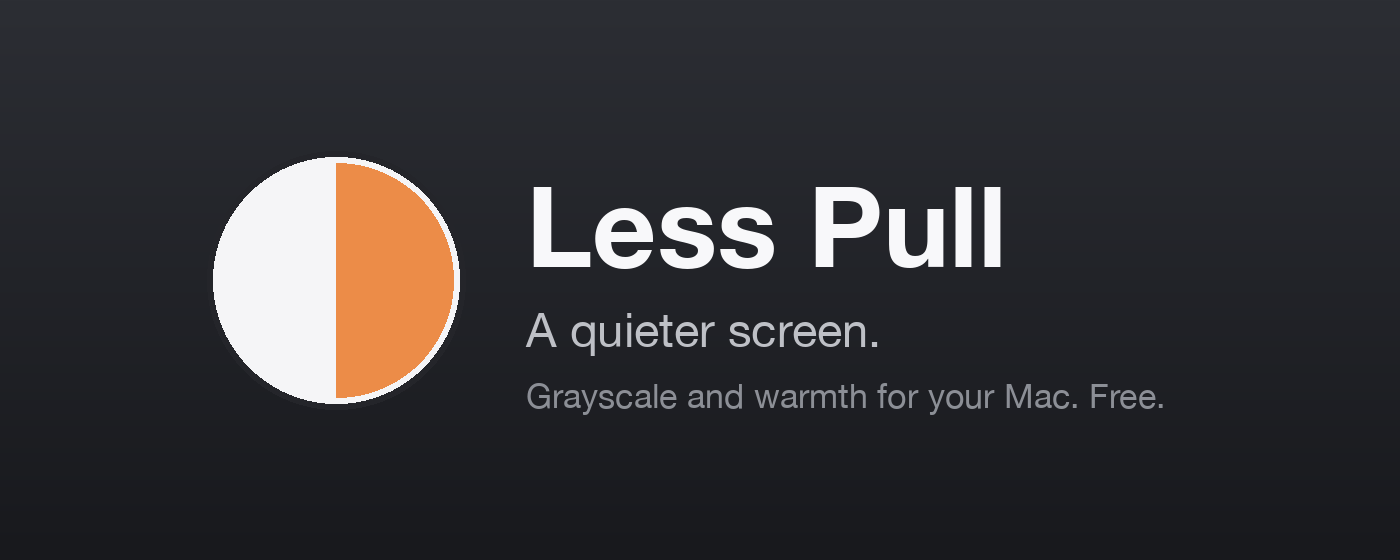
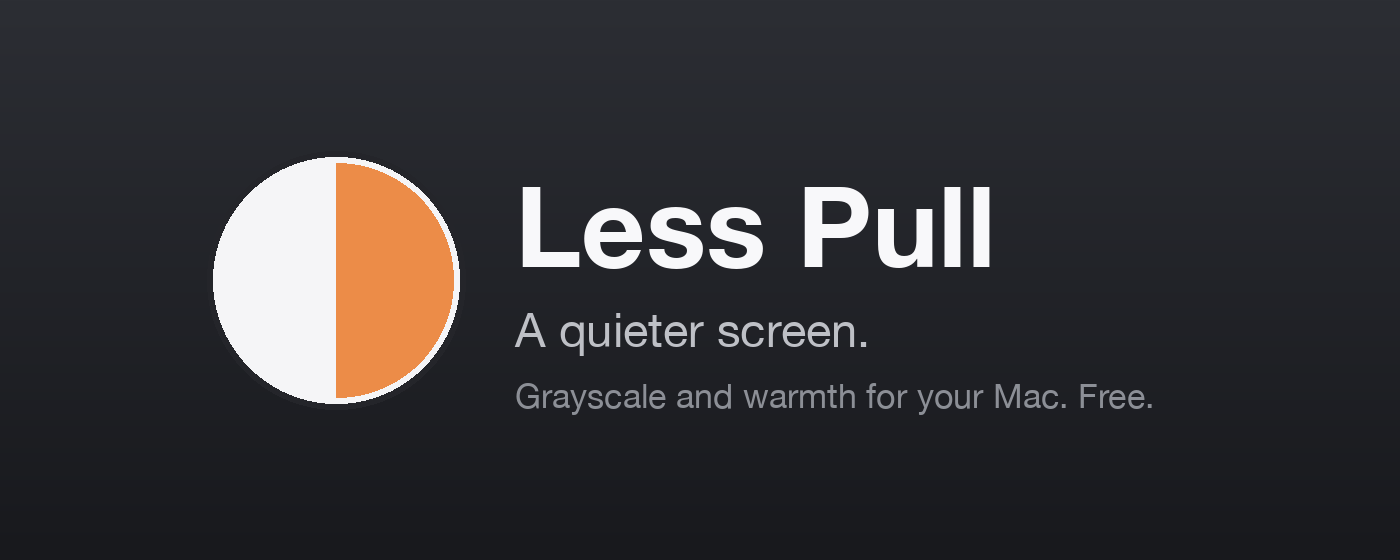
Promo tile: small size fits

Changed region(s): [[0.3686, 0.3339, 0.7371, 0.4857], [0.3686, 0.6679, 0.8293, 0.7286], [0.3686, 0.5464, 0.6143, 0.6375]]

diff --git a/docs/assets/src/promo-tiles.py b/docs/assets/src/promo-tiles.py
@@ -12,10 +12,14 @@ def tile(W, H, name):
     g = np.linspace(0, 1, H)[:, None]; top, bot = np.array([44, 46, 52]), np.array([24, 25, 29])
     im = Image.fromarray((top * (1 - g) + bot * g)[:, None, :].repeat(W, 1).reshape(H, W, 3).astype('uint8'), 'RGB'); d = ImageDraw.Draw(im)
     r = int(H * 0.22); cx, cy = int(W * 0.24), H // 2
+    if W / H < 2:  # the small tile is squarer: smaller mark, smaller type, so the lines fit
+        r = int(H * 0.19); cx = int(W * 0.2)
     d.ellipse((cx - r - 6, cy - r - 6, cx + r + 6, cy + r + 6), fill=(36, 37, 42))
     d.pieslice((cx - r, cy - r, cx + r, cy + r), 90, 270, fill=(245, 245, 247)); d.pieslice((cx - r, cy - r, cx + r, cy + r), 270, 450, fill=(236, 140, 72)); d.ellipse((cx - r, cy - r, cx + r, cy + r), outline=(245, 245, 247), width=max(3, H // 90))
-    x = cx + r + int(H * 0.12); big = font(int(H * 0.2), True); small = font(int(H * 0.085))
-    d.text((x, cy - int(H * 0.22)), 'Less Pull', font=big, fill=(248, 248, 250)); d.text((x, cy + int(H * 0.04)), 'A quieter screen.', font=small, fill=(190, 192, 198))
-    d.text((x, cy + int(H * 0.17)), 'Grayscale and warmth for your Mac. Free.', font=font(int(H * 0.062)), fill=(140, 143, 150))
+    k = 1.0 if W / H >= 2 else 0.78
+    x = cx + r + int(H * 0.1); big = font(int(H * 0.2 * k), True); small = font(int(H * 0.085 * k)); tiny = font(int(H * 0.062 * k))
+    d.text((x, cy - int(H * 0.22 * k)), 'Less Pull', font=big, fill=(248, 248, 250)); d.text((x, cy + int(H * 0.04)), 'A quieter screen.', font=small, fill=(190, 192, 198))
+    line3 = 'Grayscale and warmth for your Mac. Free.' if W / H >= 2 else 'Grayscale and warmth. Free.'
+    d.text((x, cy + int(H * 0.17)), line3, font=tiny, fill=(140, 143, 150))
     im.save(f'{out}/{name}', optimize=True); print(name, im.size)
 tile(440, 280, 'promo-small-440x280.png'); tile(1400, 560, 'promo-large-1400x560.png')
